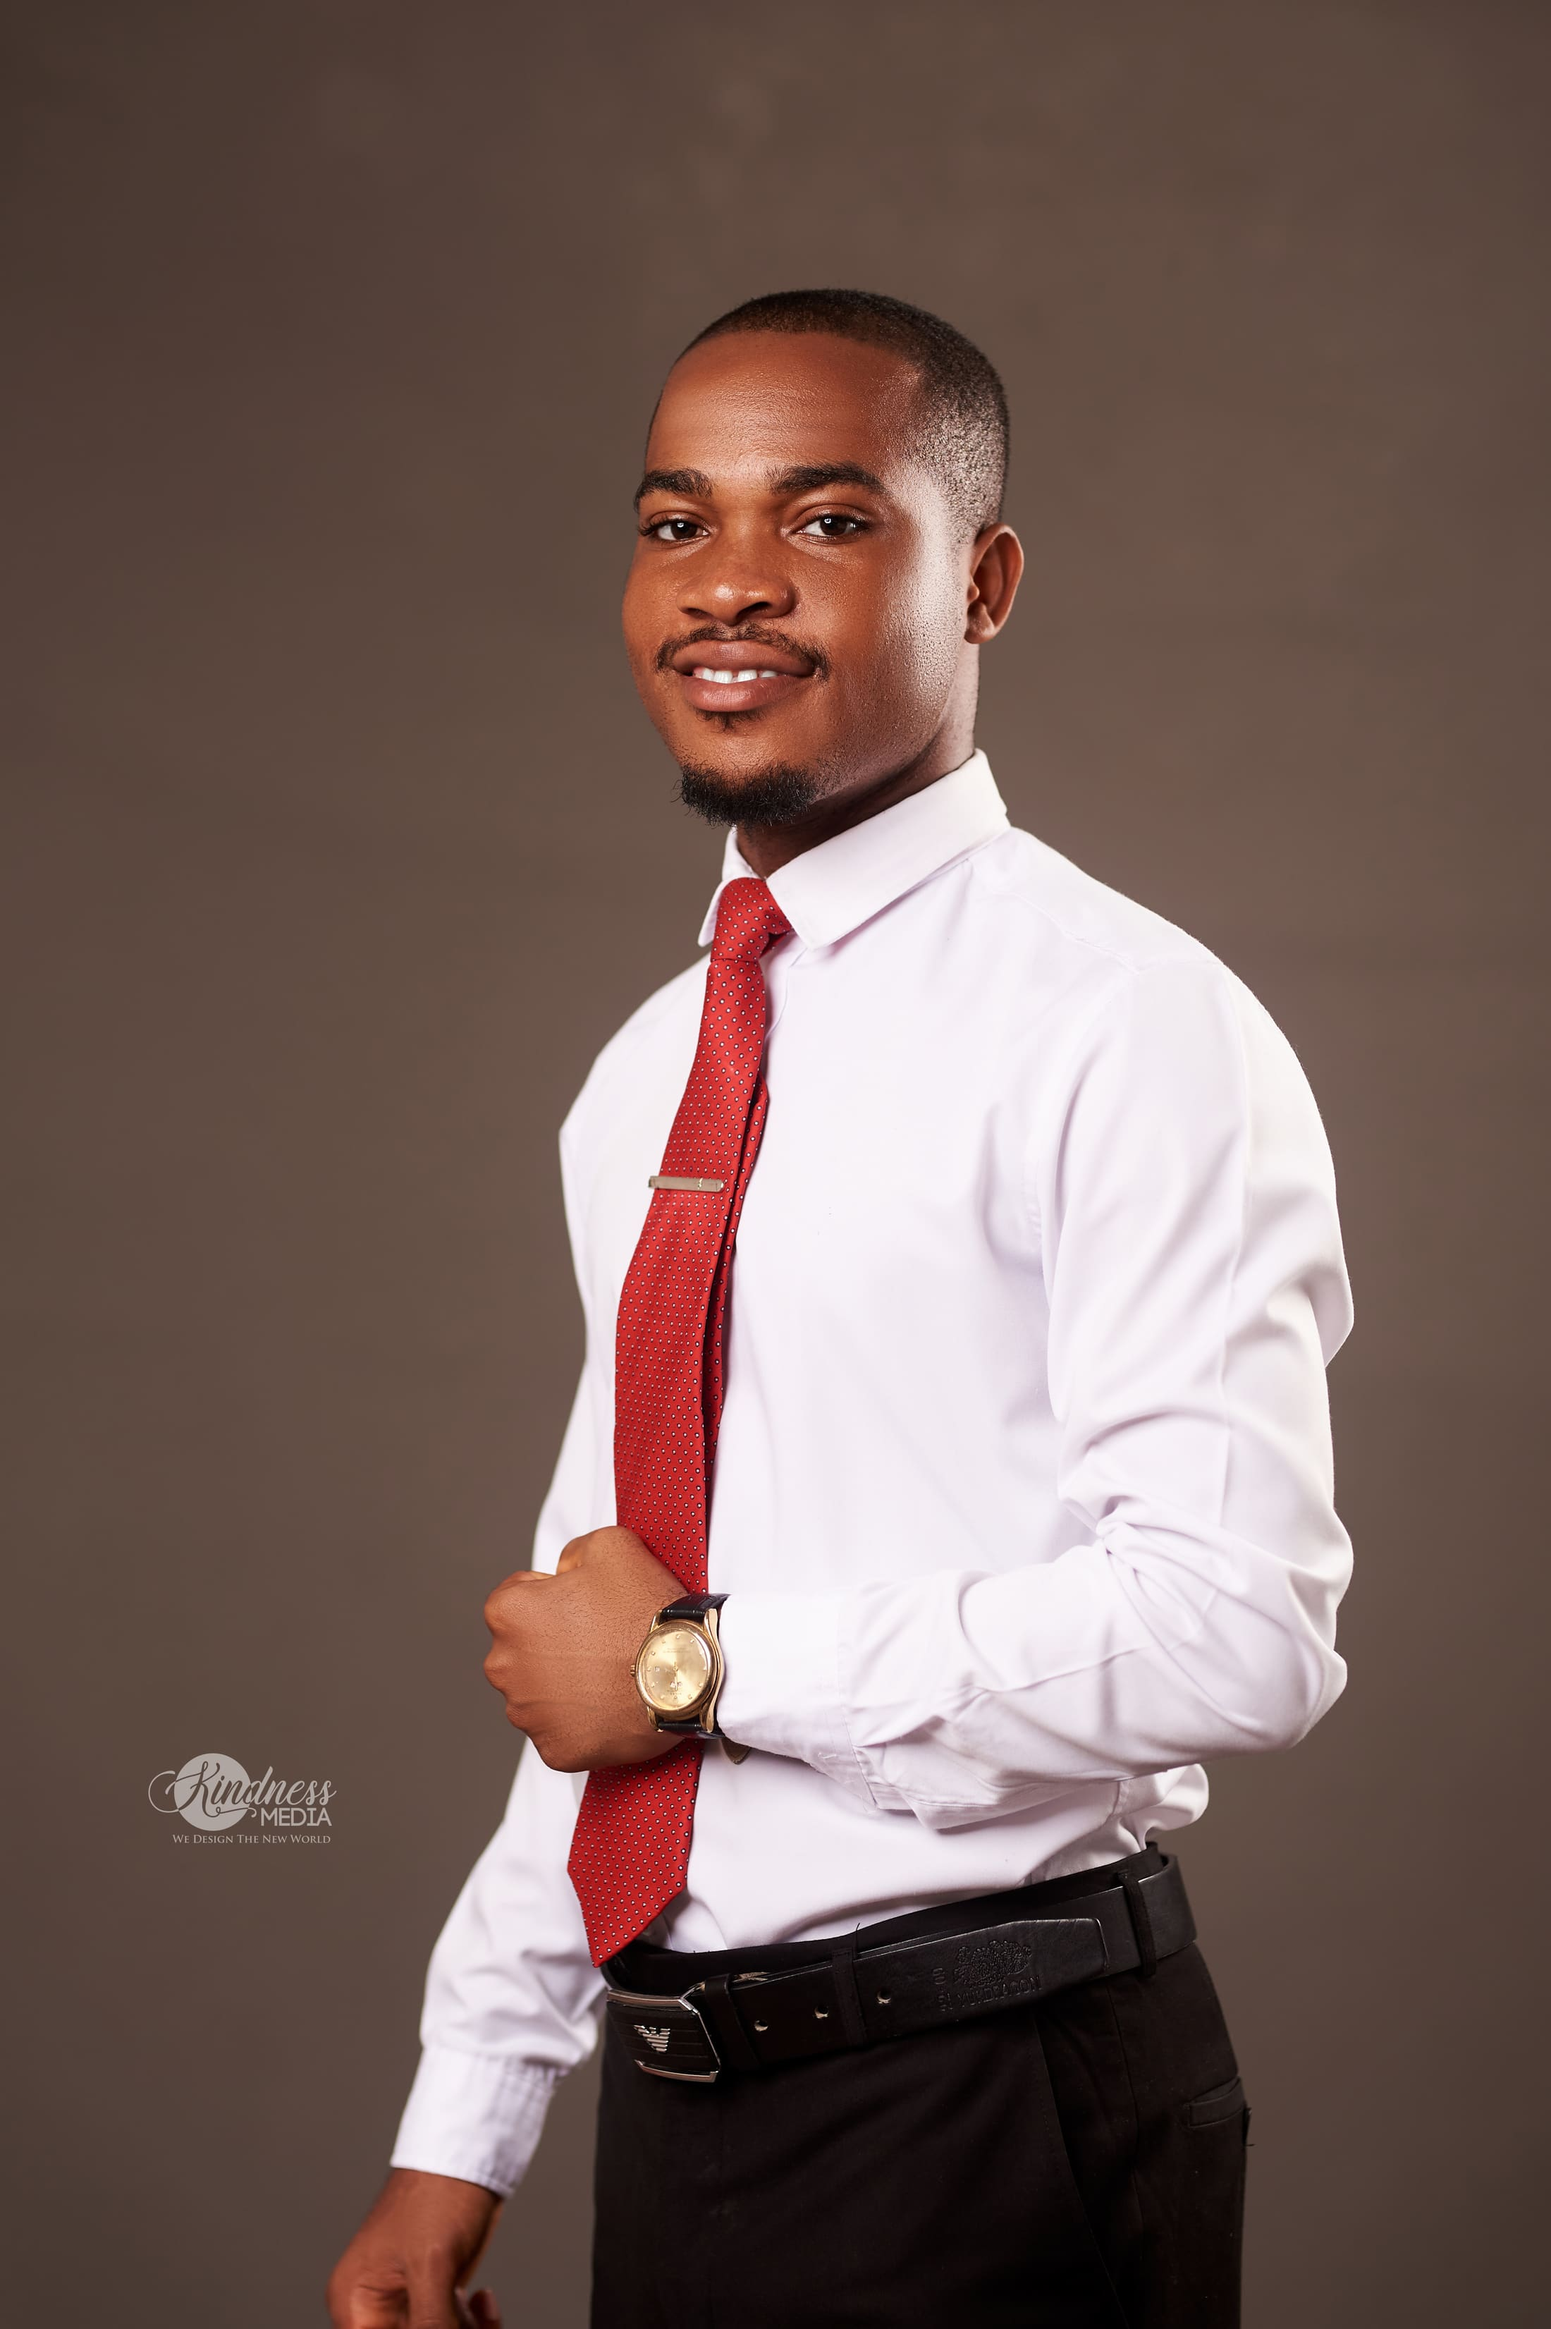
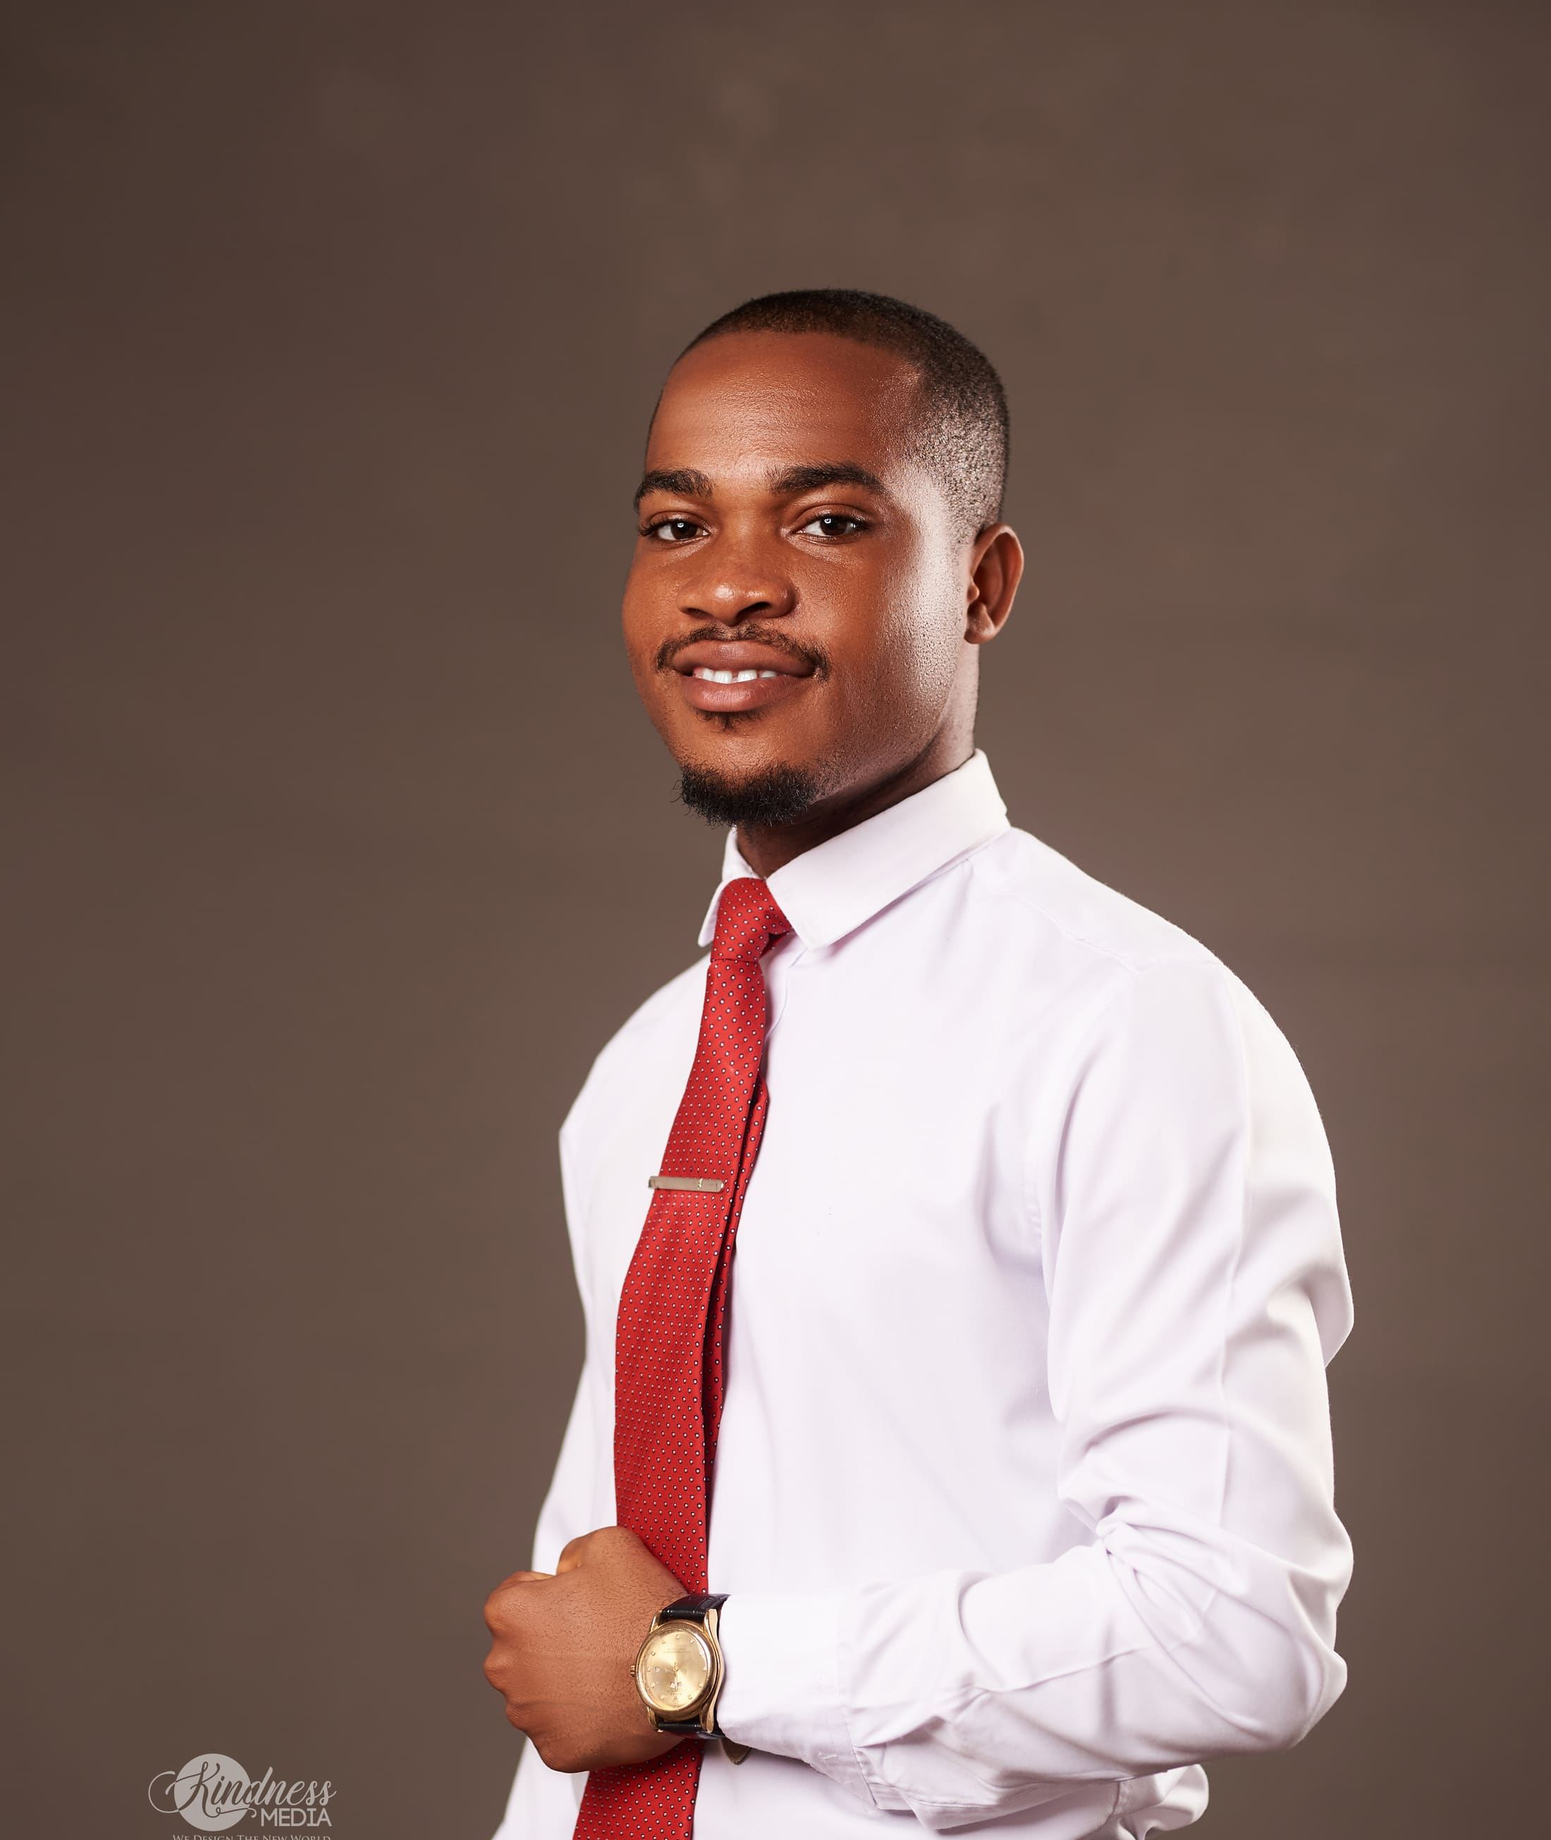
Redesign homepage hero to match reference video (light/dark split)
Cloned the layout, typography scale, spacing, and diagonal-cut motif
from the uploaded design reference (a VR/AR product template) and
substituted Ecstasy Technologies' real content and photography in
place of the reference's unrelated brand/copy/stock imagery:

- Split hero: white copy column (eyebrow, headline, dual CTAs, a
  98%-satisfaction stat, a real team-photo trust-avatar stack linking
  to real client-count copy) beside a full-bleed team portrait.
- Diagonal-cut "About" section (dark) with a grayscale team photo,
  real service tags (Web/Mobile/Enterprise), and real "our approach"
  copy, replacing the reference's VR marketing text.
- "Endless Possibilities" section with the reference's tabbed
  Innovation/Technology/Experience pattern, featuring a real blog
  post (with its real excerpt and a real project screenshot) instead
  of the reference's fake article.
- Kept the shared Navbar/Footer and the existing Capabilities/
  Selected Work/CTA sections below, per the established pattern of
  adapting structure into this Next.js site rather than a literal
  page swap.

Also:
- Cropped a watermark out of public/opare.JPG (used here and on the
  About page).
- Fixed a real mobile bug surfaced while checking this page: the
  homepage's root wrapper (.es-root) was missing the overflow-x:hidden
  that every other page gets via SharedLayout, so a pre-existing CSS
  specificity clash (a custom .es-nav-cta rule beating Tailwind's
[…]

Changed region(s): [[0.0927, 0.1242, 0.8964, 1.0], [0.0927, 0.7451, 0.2164, 0.8072]]

diff --git a/src/app/page.tsx b/src/app/page.tsx
@@ -15,6 +15,25 @@ const SERVICES = [
   { num: '05', name: 'GIS Solutions' },
 ];
 
+const TRUST_AVATARS = [
+  { src: '/Dominic Kudom.jpeg', alt: 'Dominic Kudom', position: 'center 20%' },
+  { src: '/opare.JPG', alt: 'John Opare', position: 'center top' },
+  { src: '/Parvathi.jpeg', alt: 'Parvathi Mackay', position: 'center 38%' },
+  { src: '/welbeck.jpg', alt: 'Welbeck Kwasi Morgah', position: 'center 15%' },
+];
+
+const FRONTIER_TAGS = ['Web', 'Mobile', 'Enterprise'];
+
+const POSSIBILITY_TABS = ['Innovation', 'Technology', 'Experience'];
+
+const FEATURED_POST = {
+  href: '/blog/web-vs-mobile-app-which-does-your-business-need',
+  image: '/Pro Realty Properties Web App.png',
+  title: 'Website, Web App, or Mobile App? How to Choose',
+  excerpt:
+    'Not every business idea needs a mobile app, and not every mobile app idea should skip the website. Here’s a practical way to decide.',
+};
+
 const PROJECTS = [
   {
     num: '01',
@@ -51,58 +70,203 @@ export default function Home() {
 
       <main>
 
-        {/* ── HERO ── */}
-        <section className="relative min-h-[88vh] overflow-hidden bg-black">
+        {/* ── HERO (light, split composition) ── */}
+        <section className="relative overflow-hidden bg-white" style={{ fontFamily: "'Figtree', system-ui, sans-serif" }}>
+          <div className="relative grid grid-cols-1 lg:grid-cols-2 min-h-[92vh]">
 
-          {/* Background */}
-          <div className="absolute inset-0 w-full h-full" aria-hidden="true">
-            <video
-              autoPlay
-              muted
-              loop
-              playsInline
-              className="absolute inset-0 w-full h-full object-cover"
-            >
-              <source src="/video/hero-background.mp4" type="video/mp4" />
-            </video>
-            {/* Dark gradient scrim — keeps the bottom-left copy legible over the footage */}
-            <div className="absolute inset-0 bg-gradient-to-t from-black/80 via-black/40 to-black/20" />
-            <div className="absolute bottom-0 left-0 w-[26rem] h-[26rem] bg-accent rounded-full opacity-[0.12] blur-3xl" />
-          </div>
+            {/* Copy column */}
+            <div className="relative z-10 flex items-center px-6 sm:px-12 lg:px-16 py-20 lg:py-0">
+              <div className="max-w-md">
+                <div className="flex items-start gap-3 mb-6">
+                  <span className="text-[11px] font-semibold text-neutral-400 mt-1">01</span>
+                  <span className="text-[11px] font-bold tracking-[0.2em] uppercase text-neutral-400">
+                    Software Studio
+                  </span>
+                </div>
 
-          {/* Foreground content */}
-          <div className="relative z-10 flex flex-col min-h-[88vh]">
-            <div className="flex-1 flex items-end pb-10 sm:pb-16 lg:pb-20 px-6 sm:px-12 md:px-20 lg:px-28">
-              <div className="max-w-xs">
-
-                <Link
-                  href="/portfolio"
-                  className="inline-flex items-center gap-1.5 text-[11.5px] font-medium text-blue-500 hover:text-blue-600 transition-colors mb-3 group"
+                <h1
+                  className="text-[2.6rem] sm:text-[3.4rem] lg:text-[3.8rem] leading-[0.98] font-extrabold tracking-tight text-neutral-900 mb-6"
+                  style={{ fontFamily: "'Syne', system-ui, sans-serif" }}
                 >
-                  Trusted by 32+ businesses across Ghana
-                  <span className="inline-block transition-transform duration-200 group-hover:translate-x-0.5">→</span>
-                </Link>
-
-                <h1 className="text-[1.5rem] sm:text-[1.75rem] leading-[1.15] font-medium text-white tracking-tight mb-3">
-                  Simple, smart software built for businesses who keep growing.
+                  SOFTWARE<br />AFRICA<br />TRUSTS.
                 </h1>
 
-                <p className="text-[13px] text-gray-300 font-normal mb-3">
-                  Let&apos;s build what&apos;s next.
-                </p>
+                <div className="flex flex-wrap items-center gap-3 mb-10">
+                  <Link
+                    href="/contact"
+                    className="btn-press inline-flex items-center justify-center rounded-md bg-neutral-900 text-white text-[13px] font-semibold px-6 py-3.5 hover:bg-neutral-700 transition-colors"
+                  >
+                    Start a Project
+                  </Link>
+                  <Link
+                    href="/portfolio"
+                    className="text-[13px] font-semibold text-neutral-900 border-b border-neutral-300 pb-0.5 hover:border-neutral-900 transition-colors"
+                  >
+                    View Our Work
+                  </Link>
+                </div>
 
+                <div className="mb-10">
+                  <span
+                    className="block text-[2.75rem] font-extrabold text-neutral-900 leading-none"
+                    style={{ fontFamily: "'Syne', system-ui, sans-serif" }}
+                  >
+                    98<span className="text-[1.5rem] align-top">%</span>
+                  </span>
+                  <span className="text-[12px] text-neutral-400">Client satisfaction</span>
+                </div>
+
+                <div className="flex items-start gap-4 pt-8 border-t border-neutral-200">
+                  <div className="flex items-center shrink-0">
+                    <div className="flex -space-x-2.5">
+                      {TRUST_AVATARS.map((a) => (
+                        <div key={a.src} className="relative w-8 h-8 rounded-full ring-2 ring-white overflow-hidden bg-neutral-200">
+                          <Image src={a.src} alt={a.alt} fill className="object-cover" style={{ objectPosition: a.position }} sizes="32px" />
+                        </div>
+                      ))}
+                    </div>
+                    <span
+                      className="ml-2 text-[13px] font-bold text-neutral-900"
+                      style={{ fontFamily: "'Syne', system-ui, sans-serif" }}
+                    >
+                      32+
+                    </span>
+                  </div>
+                  <p className="text-[12.5px] leading-relaxed text-neutral-500">
+                    <span className="block text-[10px] font-bold tracking-[0.14em] uppercase text-neutral-400 mb-1">
+                      Trusted by Clients
+                    </span>
+                    We&apos;ve helped 32+ businesses across Ghana build websites, apps, and
+                    systems that work as hard as they do.
+                  </p>
+                </div>
+              </div>
+            </div>
+
+            {/* Photo column — bleeds to the frame edges */}
+            <div className="relative min-h-[50vh] lg:min-h-0">
+              <Image
+                src="/opare.JPG"
+                alt="Ecstasy Technologies team member"
+                fill
+                priority
+                className="object-cover object-top"
+                sizes="(max-width: 1024px) 100vw, 50vw"
+              />
+            </div>
+          </div>
+        </section>
+
+        {/* ── ABOUT / FRONTIER (dark, diagonal cut into the hero) ── */}
+        <section className="relative bg-neutral-950 lg:-mt-[6vw] lg:[clip-path:polygon(0_6vw,100%_0,100%_100%,0_100%)]">
+          <div className="grid grid-cols-1 lg:grid-cols-2 pt-[10vw] lg:pt-32 pb-20">
+
+            <div className="relative min-h-[380px] lg:min-h-[520px] mx-6 sm:mx-12 lg:mx-0 lg:ml-16 lg:mr-8 overflow-hidden rounded-sm">
+              <Image
+                src="/welbeck.jpg"
+                alt="An Ecstasy Technologies engineer"
+                fill
+                className="object-cover grayscale contrast-125"
+                sizes="(max-width: 1024px) 100vw, 40vw"
+              />
+              <div className="absolute inset-0 bg-gradient-to-t from-black/60 via-black/10 to-black/20" />
+            </div>
+
+            <div className="px-6 sm:px-12 lg:px-16 pt-12 lg:pt-0 flex flex-col justify-center">
+              <span className="text-[11px] font-bold tracking-[0.2em] uppercase text-neutral-500 mb-4">
+                About Us
+              </span>
+              <h2
+                className="text-[2.2rem] sm:text-[2.75rem] leading-[0.98] font-extrabold tracking-tight text-white mb-6"
+                style={{ fontFamily: "'Syne', system-ui, sans-serif" }}
+              >
+                OUR APPROACH<br />TO SOFTWARE.
+              </h2>
+
+              <div className="flex flex-wrap gap-2 mb-6">
+                {FRONTIER_TAGS.map((tag) => (
+                  <span
+                    key={tag}
+                    className="text-[11px] font-medium text-neutral-300 border border-neutral-700 rounded-full px-3.5 py-1.5"
+                  >
+                    {tag}
+                  </span>
+                ))}
+              </div>
+
+              <p className="text-[14px] leading-relaxed text-neutral-400 max-w-md mb-8">
+                We partner with hotels, logistics companies, schools, and banks to build
+                software that solves real problems, not just software that looks good in a
+                pitch deck.
+              </p>
+
+              <div className="flex flex-wrap items-center gap-6">
                 <Link
-                  href="/contact"
-                  className="inline-flex items-center gap-2 text-[13px] font-medium text-blue-500 border border-blue-400 rounded-full px-5 py-2.5 hover:bg-blue-500 hover:text-white hover:border-blue-500 transition-all duration-200 group"
+                  href="/about"
+                  className="btn-press inline-flex items-center justify-center rounded-md bg-white text-neutral-900 text-[13px] font-semibold px-6 py-3.5 hover:bg-neutral-200 transition-colors"
                 >
-                  Start a Project
-                  <span className="transition-transform duration-200 group-hover:translate-x-0.5">→</span>
+                  Learn More
                 </Link>
-
+                <Link
+                  href="/portfolio"
+                  className="inline-flex items-center gap-2.5 text-[13px] font-medium text-white group"
+                >
+                  <span className="flex items-center justify-center w-8 h-8 rounded-full border border-neutral-600 group-hover:border-white transition-colors">
+                    <svg width="10" height="10" viewBox="0 0 24 24" fill="none" aria-hidden="true">
+                      <path d="M5 12H19M19 12L12 5M19 12L12 19" stroke="currentColor" strokeWidth="2.5" strokeLinecap="square"/>
+                    </svg>
+                  </span>
+                  View Our Work
+                </Link>
               </div>
             </div>
           </div>
 
+          {/* ── POSSIBILITIES + featured article ── */}
+          <div className="px-6 sm:px-12 lg:px-16 pb-24 lg:pb-32">
+            <h2
+              className="italic text-[2.1rem] sm:text-[2.9rem] leading-[1.05] font-bold text-white mb-14 lg:mb-20 max-w-2xl"
+              style={{ fontFamily: "'Syne', system-ui, sans-serif" }}
+            >
+              ENDLESS POSSIBILITIES<br />WITH ECSTASY.
+            </h2>
+
+            <div className="grid grid-cols-1 lg:grid-cols-[160px_1fr] gap-8 lg:gap-16">
+              <ul className="flex lg:flex-col gap-6 lg:gap-4">
+                {POSSIBILITY_TABS.map((tab, i) => (
+                  <li
+                    key={tab}
+                    className={`text-[13px] font-semibold ${i === 0 ? 'text-white' : 'text-neutral-600'}`}
+                  >
+                    {tab}
+                  </li>
+                ))}
+              </ul>
+
+              <Link href={FEATURED_POST.href} className="group grid grid-cols-1 sm:grid-cols-[220px_1fr] gap-6 items-center">
+                <div className="relative w-full aspect-[4/3] sm:aspect-square overflow-hidden rounded-sm bg-neutral-900">
+                  <Image
+                    src={FEATURED_POST.image}
+                    alt={FEATURED_POST.title}
+                    fill
+                    className="object-cover object-top transition-transform duration-300 group-hover:scale-105"
+                    sizes="220px"
+                  />
+                </div>
+                <div>
+                  <h3 className="text-[1.25rem] sm:text-[1.4rem] leading-tight font-bold text-white mb-3">
+                    {FEATURED_POST.title}
+                  </h3>
+                  <p className="text-[13.5px] leading-relaxed text-neutral-400 max-w-md mb-4">
+                    {FEATURED_POST.excerpt}
+                  </p>
+                  <span className="text-[12.5px] font-semibold text-white border-b border-neutral-500 pb-0.5 group-hover:border-white transition-colors">
+                    Learn More
+                  </span>
+                </div>
+              </Link>
+            </div>
+          </div>
         </section>
 
         {/* ── CAPABILITIES ── */}

diff --git a/src/app/globals.css b/src/app/globals.css
@@ -224,6 +224,7 @@ body::before {
 /* ── Root wrapper ── */
 .es-root {
   min-height: 100vh;
+  overflow-x: hidden;
   background-color: var(--background);
   color: var(--foreground);
   font-family: 'Figtree', system-ui, sans-serif;
